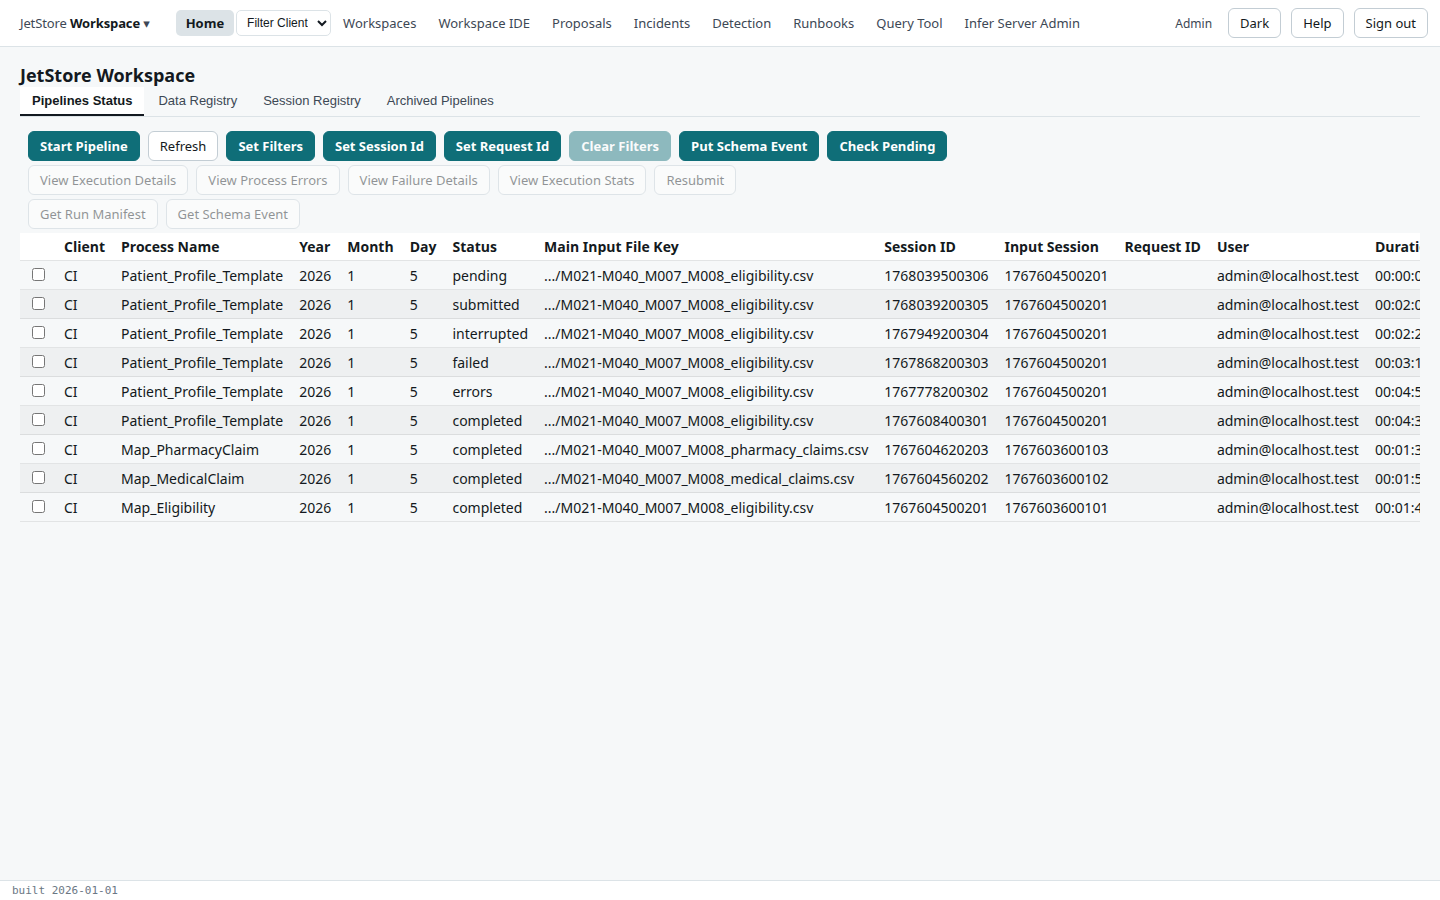
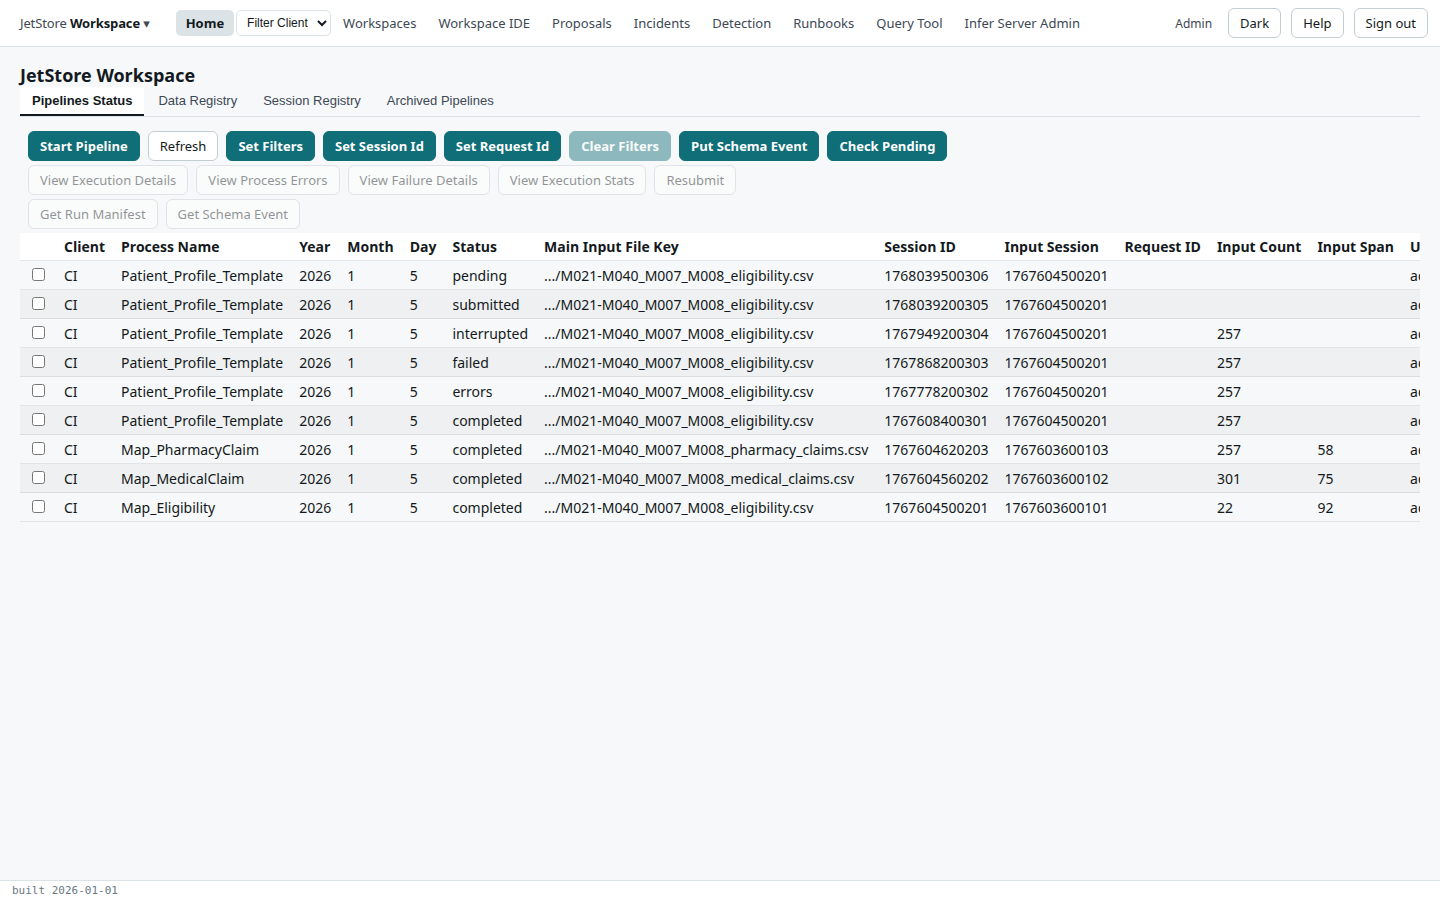
Screenshots retaken for 4.1.18
npm run shots on 915edd5a, the release commit less these images: 42 specs
passed, 12 images rewritten and 141 unchanged. The Pipelines Status and
Archived Pipelines images show Input Count and Input Span; the filtered
Home image shows the same table; the Incidents page shows the source type
and file key rows, and the verdict section the three buttons a diagnosed
incident offers since 4.1.17. The alt text of those three images says so.

Changed region(s): [[0.8438, 0.2489, 1.0, 0.5911]]

diff --git a/docs/src/content/docs/user/screens/incidents.md b/docs/src/content/docs/user/screens/incidents.md
@@ -92,7 +92,7 @@ delivery before claiming a cause.
 
 ## An incident
 
-![The page of inc_20001: what the record evidences (locus Worker failed, with what it cannot see; session; raised by run_20010; detected; no step; shard 2; no confounders), what has been claimed (no cause, severity high, model version), and the first ranked hypothesis with its supporting and contradicting evidence.](../../../../assets/screenshots/user/screens/incidents/incident.png)
+![The page of inc_20001: what the record evidences (locus Worker failed, with what it cannot see; session; source type and file key, nothing registered under this session; raised by run_20010; detected; no step; shard 2; no confounders), what has been claimed (no cause, severity high, model version), and the first ranked hypothesis with its supporting and contradicting evidence.](../../../../assets/screenshots/user/screens/incidents/incident.png)
 
 | Section | What it shows |
 |---|---|
@@ -144,7 +144,7 @@ When a summary cannot be built, for instance because the anomaly table is not in
 says so and gives the reason; the rest of the incident is shown as usual. A run incident has no
 summary.
 
-![Lower on the same page: the second hypothesis, the two transitions by shadow triage, and the verdict section with a reason box and the Remediation proposed button.](../../../../assets/screenshots/user/screens/incidents/incident-verdict.png)
+![Lower on the same page: the second hypothesis, the two transitions by shadow triage, and the verdict section with a reason box, a cause list and three buttons: Reclassified, Remediation proposed and Suppressed as benign.](../../../../assets/screenshots/user/screens/incidents/incident-verdict.png)
 
 ### Recording a verdict
 

diff --git a/docs/src/content/docs/user/screens/home.md b/docs/src/content/docs/user/screens/home.md
@@ -26,7 +26,7 @@ Every run of a pipeline, the latest first: one row per run, with its status, its
 session. What each status means is in
 [Pipelines and sessions](/docs/user/concepts/pipelines-and-sessions/#what-a-runs-status-means).
 
-![The Pipelines Status tab: nine runs of the CI client's pipelines, three completed Map runs and six runs of Patient_Profile_Template, pending, submitted, interrupted, failed, errors and completed, with the tab's buttons above them.](../../../../assets/screenshots/user/screens/home/pipelines-status.png)
+![The Pipelines Status tab: nine runs of the CI client's pipelines, three completed Map runs and six runs of Patient_Profile_Template, pending, submitted, interrupted, failed, errors and completed, with the tab's buttons above them; the runs that ended show an input count, and the three Map runs an input span.](../../../../assets/screenshots/user/screens/home/pipelines-status.png)
 
 | Column | What it holds |
 |---|---|
